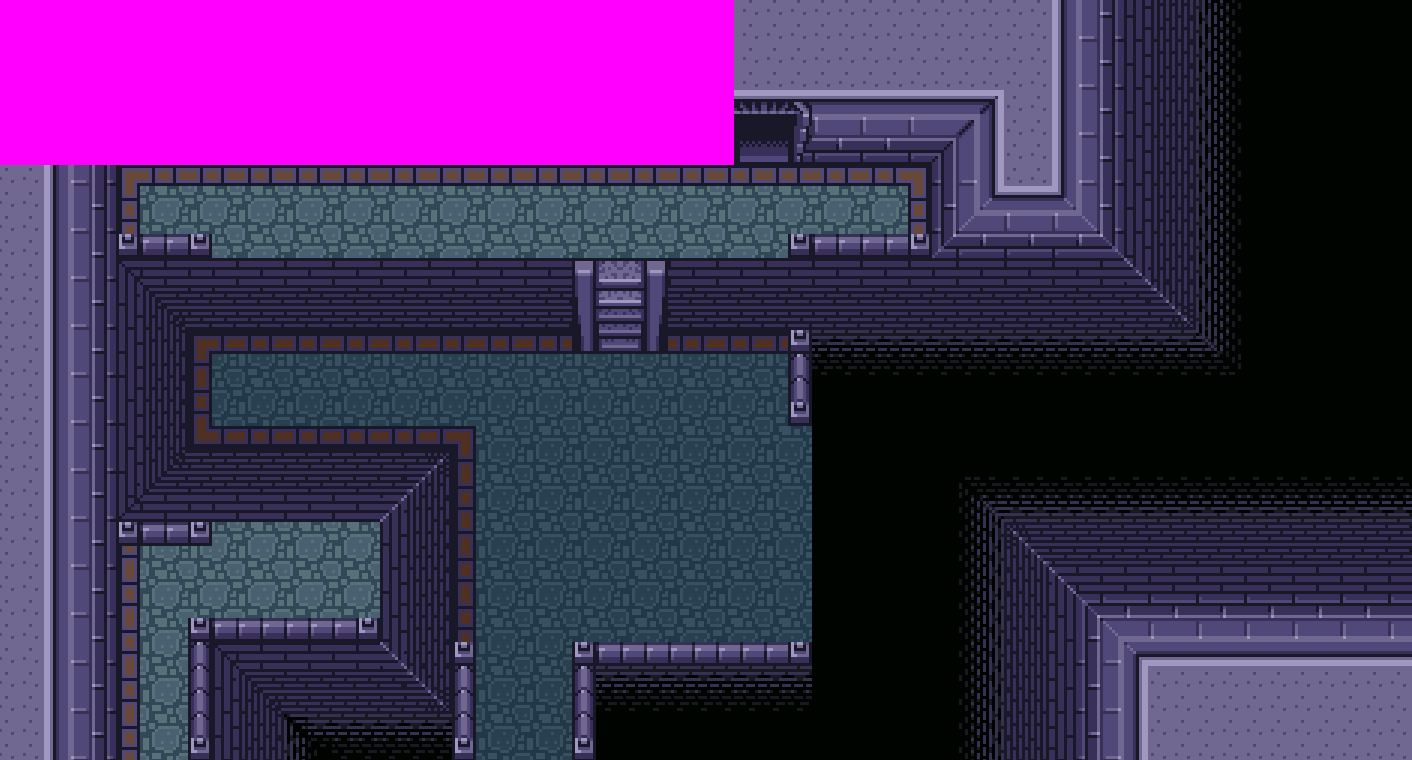
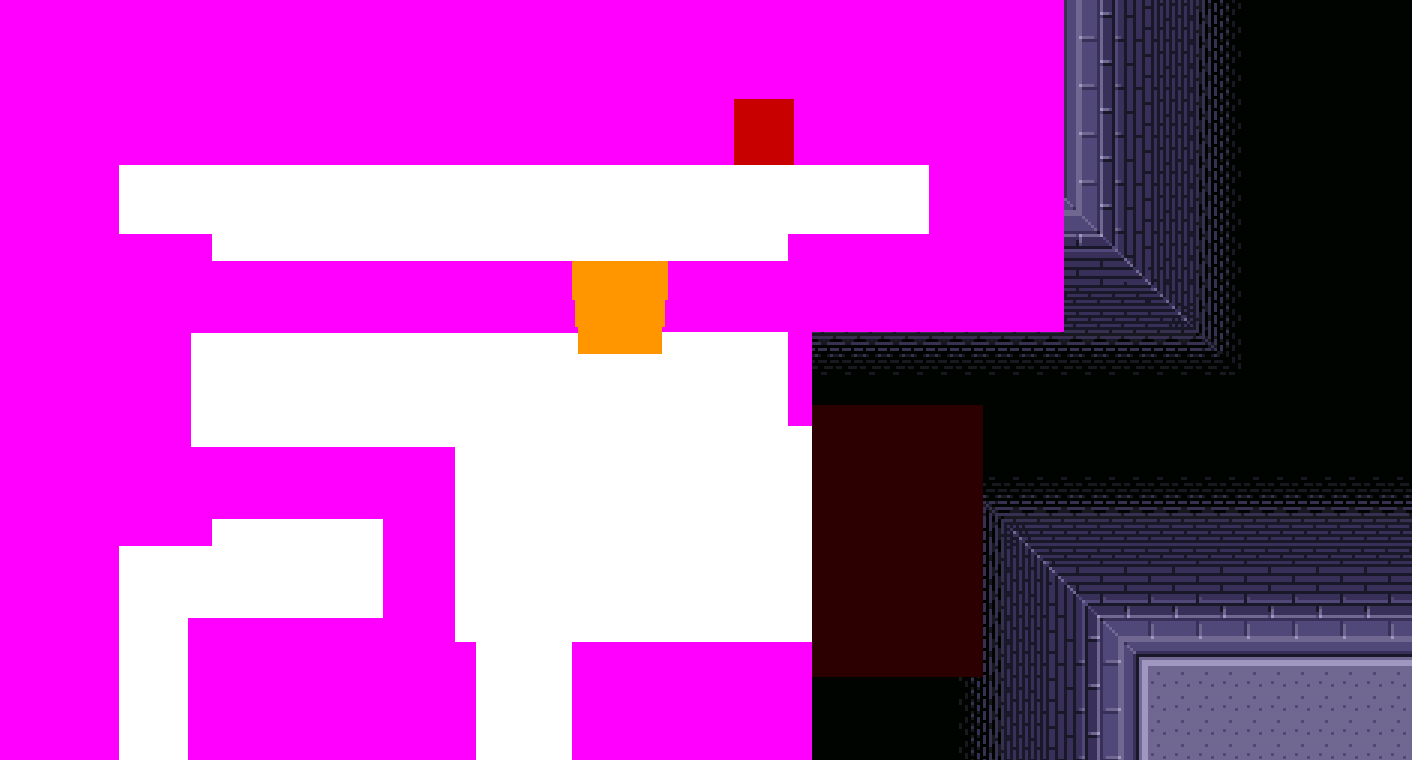
updated: castle dungeon collision image update(no leak, release check)

diff --git a/LinkToThePast/Zelda/RoomManageMode.cpp b/LinkToThePast/Zelda/RoomManageMode.cpp
@@ -290,7 +290,7 @@ void ARoomManageMode::EndRoomMove()
 		break;
 	case ERoomDirection::RIGHT_DIRECT:
 		MoveSize = {
-			80.0f,
+			DirectMoveDistance,
 			0.0f};
 		PlayerCharacter->SetActorLocation(PlayerCharacter->GetActorLocation() + MoveSize);
 		break;
@@ -308,8 +308,8 @@ void ARoomManageMode::EndRoomMove()
 		break;
 	case ERoomDirection::LEFT_DIRECT:
 		MoveSize = {
-			0.0f,
-			UEngineAPICore::GetCore()->GetMainWindow().GetWindowSize().Half().Y * RoomSizeRatio };
+			-DirectMoveDistance,
+			0.0f};
 		PlayerCharacter->SetActorLocation(PlayerCharacter->GetActorLocation() + MoveSize);
 		break;
 	case ERoomDirection::UP:
@@ -327,7 +327,7 @@ void ARoomManageMode::EndRoomMove()
 	case ERoomDirection::UP_DIRECT:
 		MoveSize = {
 			0.0f,
-			UEngineAPICore::GetCore()->GetMainWindow().GetWindowSize().Half().Y * RoomSizeRatio };
+			-DirectMoveDistance };
 		PlayerCharacter->SetActorLocation(PlayerCharacter->GetActorLocation() + MoveSize);
 		break;
 	case ERoomDirection::DOWN:
@@ -345,7 +345,7 @@ void ARoomManageMode::EndRoomMove()
 	case ERoomDirection::DOWN_DIRECT	:
 		MoveSize = {
 			0.0f,
-			UEngineAPICore::GetCore()->GetMainWindow().GetWindowSize().Half().Y * RoomSizeRatio };
+			DirectMoveDistance };
 		PlayerCharacter->SetActorLocation(PlayerCharacter->GetActorLocation() + MoveSize);
 		break;
 	default:
@@ -355,12 +355,12 @@ void ARoomManageMode::EndRoomMove()
 	CurRoomDir = ERoomDirection::NONE;
 }
 
-void ARoomManageMode::CreateRoomActor(std::string_view _MapName, int StartRoomIndex)
+void ARoomManageMode::CreateRoomActor(std::string_view MapName, int StartRoomIndex)
 {
 	for (size_t i = 0; i < RoomDataes.size(); i++)
 	{
 		ARoom* DungeonRoom = GetWorld()->SpawnActor<ARoom>();
-		DungeonName = _MapName;
+		std::string DungeonName = MapName.data();
 		DungeonName.append(std::to_string(i + 1));
 		std::string SpriteName = DungeonName + ".png";
 		std::string CollisionSpriteName = DungeonName + "Collision.png";

diff --git a/LinkToThePast/EngineBase/EngineMath.cpp b/LinkToThePast/EngineBase/EngineMath.cpp
@@ -35,6 +35,8 @@ const UColor UColor::ROOM_DOWN_DIRECT = { 0, 250, 0, 0 };
 const UColor UColor::ROOM_RIGHT_DIRECT = { 0, 0, 250, 0 };
 const UColor UColor::ROOM_LEFT_DIRECT = { 250, 250, 0, 0 };
 
+const UColor UColor::FALL = { 44, 0, 0, 0 };
+
 FIntPoint FVector2D::ConvertToPoint() const
 {
 	return { iX(), iY() };

diff --git a/LinkToThePast/EngineBase/EngineMath.h b/LinkToThePast/EngineBase/EngineMath.h
@@ -370,6 +370,8 @@ public:
 	static const UColor ROOM_RIGHT_DIRECT;
 	static const UColor ROOM_LEFT_DIRECT;
 
+	static const UColor FALL;
+
 	union
 	{
 		int Color;
